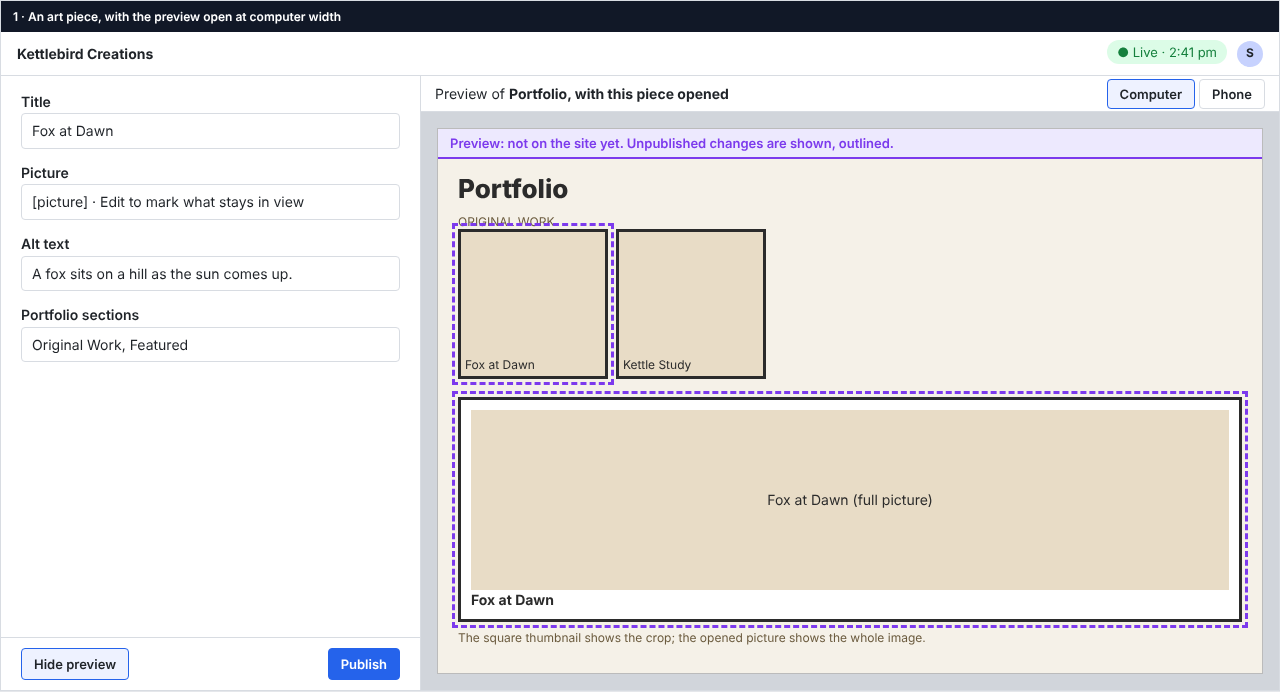
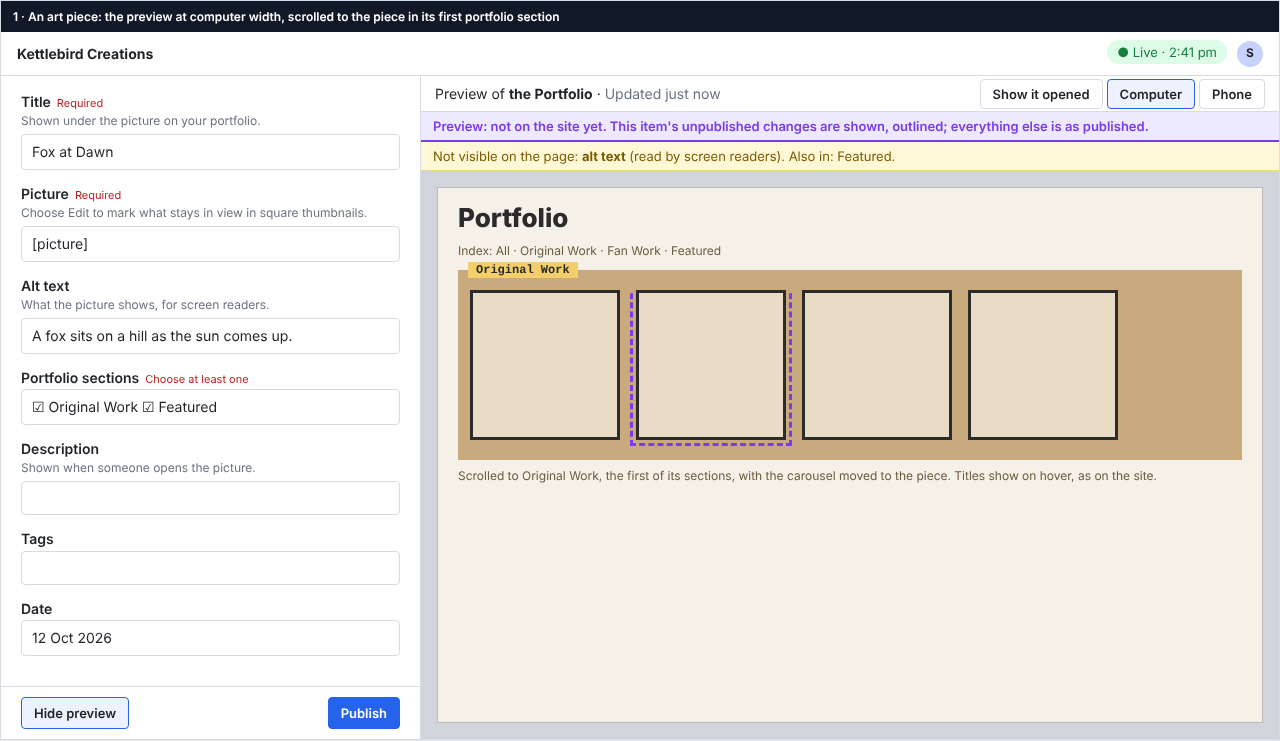
Revise the preview design after its persona walkthrough
Preview pages are separate from the public site, behind a short-lived
key, and the public build reads published content only, with a check;
the preview shows only this item's draft, lists changes the page can't
show, keeps its mark fixed and turns green after Publish; nine mock-ups
matching the real portfolio and the approved forms.

Claude-Session: https://claude.ai/code/session_01HWRLNSVAoX5Ni8d8XcwJh1

diff --git a/docs/design/mockups/preview/mockups.html b/docs/design/mockups/preview/mockups.html
@@ -40,43 +40,70 @@
   .banner { display: flex; align-items: center; gap: 10px; border: 3px solid var(--site); padding: 10px 14px; background: #fde8d7; font-family: system-ui; }
   .dot { width: 12px; height: 12px; border-radius: 50%; background: #d9822b; }
   .chg { outline: 3px dashed var(--prev); outline-offset: 3px; }
+  .hint { background: #fff7d6; color: #7a5b00; font: 13px system-ui; padding: 6px 12px; border-bottom: 1px solid #ecd889; }
+  .help { color: var(--muted); font-size: 12px; margin: 0 0 4px; }
+  .req { color: #b91c1c; font-weight: 400; font-size: 11px; margin-left: 6px; }
+  .tag { display:inline-block; border:2px solid var(--site); padding:1px 8px; font:12px ui-monospace,monospace; background:#a8d5a2; margin-right:6px; }
+  .carousel { display:flex; gap:8px; overflow:hidden; }
+  .band { background:#c9aa7e; padding:20px 12px 12px; position:relative; margin-bottom:6px; }
+  .band .lab { position:absolute; top:-8px; left:10px; background:#f4ce6a; padding:1px 8px; font:600 12px ui-monospace,monospace; }
+  .modal { position:absolute; inset:0; background:rgba(43,43,43,.85); display:flex; align-items:center; justify-content:center; }
+  .modal .box { background:#f5f1e8; border:3px solid #2b2b2b; width:80%; padding:10px; font-family:system-ui; }
 </style>
 </head>
 <body>
 <div class="frame" id="m1">
-<h6>1 · An art piece, with the preview open at computer width</h6>
+<h6>1 · An art piece: the preview at computer width, scrolled to the piece in its first portfolio section</h6>
 <div class="top"><strong>Kettlebird Creations</strong><span><span class="status">● Live · 2:41 pm</span><span class="avatar">S</span></span></div>
-<div class="split"><div class="form"><div class="doc"><div class="field"><label>Title</label><div class="input">Fox at Dawn</div></div><div class="field"><label>Picture</label><div class="input">[picture] · Edit to mark what stays in view</div></div><div class="field"><label>Alt text</label><div class="input">A fox sits on a hill as the sun comes up.</div></div><div class="field"><label>Portfolio sections</label><div class="input">Original Work, Featured</div></div></div><div class="bar"><span class="btn on">Hide preview</span><span class="btn primary">Publish</span></div></div><div class="pv"><div class="pvbar"><span>Preview of <strong>Portfolio, with this piece opened</strong></span><span><span class="btn on">Computer</span> <span class="btn">Phone</span></span></div><div class="stage"><div class="page"><div class="ribbon">Preview: not on the site yet. Unpublished changes are shown, outlined.</div><div class="site"><h1>Portfolio</h1><div class="note">ORIGINAL WORK</div><span class="card chg">Fox at Dawn</span><span class="card">Kettle Study</span><div class="light chg"><div class="img">Fox at Dawn (full picture)</div><strong>Fox at Dawn</strong></div><p class="note">The square thumbnail shows the crop; the opened picture shows the whole image.</p></div></div></div></div></div>
+<div class="split"><div class="form"><div class="doc"><div class="field"><label>Title<span class="req">Required</span></label><p class="help">Shown under the picture on your portfolio.</p><div class="input">Fox at Dawn</div></div><div class="field"><label>Picture<span class="req">Required</span></label><p class="help">Choose Edit to mark what stays in view in square thumbnails.</p><div class="input">[picture]</div></div><div class="field"><label>Alt text</label><p class="help">What the picture shows, for screen readers.</p><div class="input">A fox sits on a hill as the sun comes up.</div></div><div class="field"><label>Portfolio sections<span class="req">Choose at least one</span></label><div class="input">☑ Original Work ☑ Featured</div></div><div class="field"><label>Description</label><p class="help">Shown when someone opens the picture.</p><div class="input"></div></div><div class="field"><label>Tags</label><div class="input"></div></div><div class="field"><label>Date</label><div class="input">12 Oct 2026</div></div></div><div class="bar"><span class="btn on">Hide preview</span><span class="btn primary">Publish</span></div></div><div class="pv"><div class="pvbar"><span>Preview of <strong>the Portfolio</strong> · <span style="color:var(--muted)">Updated just now</span></span><span> <span class="btn">Show it opened</span> <span><span class="btn on">Computer</span> <span class="btn">Phone</span></span></span></div><div class="ribbon">Preview: not on the site yet. This item&#39;s unpublished changes are shown, outlined; everything else is as published.</div><div class="hint">Not visible on the page: <strong>alt text</strong> (read by screen readers). Also in: Featured.</div><div class="stage"><div class="page" style="position:relative"><div class="site"><h1>Portfolio</h1><p class="note">Index: All · Original Work · Fan Work · Featured</p><div class="band"><span class="lab">Original Work</span><div class="carousel"><span class="card">&nbsp;</span><span class="card chg">&nbsp;</span><span class="card">&nbsp;</span><span class="card">&nbsp;</span></div></div><p class="note">Scrolled to Original Work, the first of its sections, with the carousel moved to the piece. Titles show on hover, as on the site.</p></div></div></div></div></div>
 </div>
 
 <div class="frame" id="m2">
-<h6>2 · The same piece at phone width</h6>
+<h6>2 · Show it opened, at phone width: the piece as fans see it when they tap it</h6>
 <div class="top"><strong>Kettlebird Creations</strong><span><span class="status">● Live · 2:41 pm</span><span class="avatar">S</span></span></div>
-<div class="split"><div class="form"><div class="doc"><div class="field"><label>Title</label><div class="input">Fox at Dawn</div></div><div class="field"><label>Picture</label><div class="input">[picture] · Edit to mark what stays in view</div></div><div class="field"><label>Alt text</label><div class="input">A fox sits on a hill as the sun comes up.</div></div><div class="field"><label>Portfolio sections</label><div class="input">Original Work, Featured</div></div></div><div class="bar"><span class="btn on">Hide preview</span><span class="btn primary">Publish</span></div></div><div class="pv"><div class="pvbar"><span>Preview of <strong>Portfolio, with this piece opened</strong></span><span><span class="btn">Computer</span> <span class="btn on">Phone</span></span></div><div class="stage"><div class="page phone"><div class="ribbon">Preview: not on the site yet. Unpublished changes are shown, outlined.</div><div class="site"><h1>Portfolio</h1><span class="card chg" style="width:160px;height:160px">Fox at Dawn</span><div class="light chg"><div class="img" style="height:150px">Fox at Dawn</div><strong>Fox at Dawn</strong></div></div></div></div></div></div>
+<div class="split"><div class="form"><div class="doc"><div class="field"><label>Title<span class="req">Required</span></label><p class="help">Shown under the picture on your portfolio.</p><div class="input">Fox at Dawn</div></div><div class="field"><label>Picture<span class="req">Required</span></label><p class="help">Choose Edit to mark what stays in view in square thumbnails.</p><div class="input">[picture]</div></div><div class="field"><label>Alt text</label><p class="help">What the picture shows, for screen readers.</p><div class="input">A fox sits on a hill as the sun comes up.</div></div><div class="field"><label>Portfolio sections<span class="req">Choose at least one</span></label><div class="input">☑ Original Work ☑ Featured</div></div><div class="field"><label>Description</label><p class="help">Shown when someone opens the picture.</p><div class="input"></div></div><div class="field"><label>Tags</label><div class="input"></div></div><div class="field"><label>Date</label><div class="input">12 Oct 2026</div></div></div><div class="bar"><span class="btn on">Hide preview</span><span class="btn primary">Publish</span></div></div><div class="pv"><div class="pvbar"><span>Preview of <strong>the Portfolio, with this piece opened</strong> · <span style="color:var(--muted)">Updated just now</span></span><span> <span class="btn on">Show it opened</span> <span><span class="btn">Computer</span> <span class="btn on">Phone</span></span></span></div><div class="ribbon">Preview: not on the site yet. This item&#39;s unpublished changes are shown, outlined; everything else is as published.</div><div class="stage"><div class="page phone" style="position:relative"><div class="site" style="min-height:420px"><h1>Portfolio</h1><div class="band"><span class="lab">Original Work</span><div class="carousel"><span class="card">&nbsp;</span><span class="card chg">&nbsp;</span><span class="card">&nbsp;</span><span class="card">&nbsp;</span></div></div><div class="modal"><div class="box chg"><div style="height:160px;background:#e8dcc6;display:flex;align-items:center;justify-content:center">Fox at Dawn, whole picture</div><strong>Fox at Dawn</strong></div></div></div></div></div></div></div>
 </div>
 
 <div class="frame" id="m3">
-<h6>3 · A chapter: the preview follows the page Star has open</h6>
+<h6>3 · A chapter: the preview follows the page open in the page panel</h6>
 <div class="top"><strong>Kettlebird Creations</strong><span><span class="status">● Live · 2:41 pm</span><span class="avatar">S</span></span></div>
-<div class="split"><div class="form"><div class="doc"><div class="field"><label>Chapter</label><div class="input">2</div></div><div class="field"><label>Title</label><div class="input">The Long Road</div></div><div class="field"><label>Pages</label><div class="input">[24 pages] · page 3 selected</div></div><div class="field"><label>Page 3 · Alt text</label><div class="input">Fox and Kettle cross the river at dusk.</div></div></div><div class="bar"><span class="btn on">Hide preview</span><span class="btn primary">Publish</span></div></div><div class="pv"><div class="pvbar"><span>Preview of <strong>Chapter 2, page 3 in the reader</strong></span><span><span class="btn on">Computer</span> <span class="btn">Phone</span></span></div><div class="stage"><div class="page"><div class="ribbon">Preview: not on the site yet. Unpublished changes are shown, outlined.</div><div class="site"><div class="note">← Back to series &nbsp;&nbsp; <strong>Chapter 2: The Long Road · Page 3 of 24</strong></div><div class="light chg" style="text-align:center"><div class="img" style="height:300px">page 3</div></div><div class="note">Previous page &nbsp; Next page</div></div></div></div></div></div>
+<div class="split"><div class="form"><div class="doc"><div class="field"><label>Chapter<span class="req">Required</span></label><div class="input">2</div></div><div class="field"><label>Title</label><div class="input">The Long Road</div></div><div class="field"><label>Pages</label><div class="input">[24 thumbnails] · page 3 open</div></div><div class="field" style="border:1px solid var(--line);border-radius:6px;padding:10px;background:#fafafa"><label>Page 3</label><div class="input" style="height:70px">[page image]</div><div class="field"><label>Alt text</label><div class="input">Fox and Kettle cross the river at dusk.</div></div><span class="btn">Previous page</span> <span class="btn">Next page</span> <span class="btn">Done</span></div></div><div class="bar"><span class="btn on">Hide preview</span><span class="btn primary">Publish</span></div></div><div class="pv"><div class="pvbar"><span>Preview of <strong>Chapter 2, page 3 in the reader</strong> · <span style="color:var(--muted)">Updated just now</span></span><span> <span><span class="btn on">Computer</span> <span class="btn">Phone</span></span></span></div><div class="ribbon">Preview: not on the site yet. This item&#39;s unpublished changes are shown, outlined; everything else is as published.</div><div class="hint">Not visible on the page: <strong>alt text</strong>. Links in the preview don&#39;t go anywhere; choose another page in the chapter to preview it.</div><div class="stage"><div class="page" style="position:relative"><div class="site"><div class="note">← Back to series &nbsp;&nbsp; <strong>Chapter 2: The Long Road · Page 3 of 24</strong></div><div class="light chg" style="text-align:center"><div class="img" style="height:260px">page 3</div></div><div class="note">Previous page &nbsp; Next page</div></div></div></div></div></div>
 </div>
 
 <div class="frame" id="m4">
 <h6>4 · A series</h6>
 <div class="top"><strong>Kettlebird Creations</strong><span><span class="status">● Live · 2:41 pm</span><span class="avatar">S</span></span></div>
-<div class="split"><div class="form"><div class="doc"><div class="field"><label>Title</label><div class="input">Kettle Tales</div></div><div class="field"><label>Cover</label><div class="input">[picture]</div></div><div class="field"><label>Description</label><div class="input">A fox and a kettle set out across the hills, and keep going.</div></div><div class="field"><label>Status</label><div class="input">Ongoing</div></div></div><div class="bar"><span class="btn on">Hide preview</span><span class="btn primary">Publish</span></div></div><div class="pv"><div class="pvbar"><span>Preview of <strong>the Kettle Tales series page</strong></span><span><span class="btn on">Computer</span> <span class="btn">Phone</span></span></div><div class="stage"><div class="page"><div class="ribbon">Preview: not on the site yet. Unpublished changes are shown, outlined.</div><div class="site" style="display:grid;grid-template-columns:160px 1fr;gap:16px"><div class="card" style="width:150px;height:210px">cover</div><div><h1>Kettle Tales</h1><p class="chg">A fox and a kettle set out across the hills, and keep going.</p><span class="btn">Start reading</span><h2 style="font:700 16px system-ui">Chapters</h2><p class="note">Chapter 1: The Kettle · 3 pages<br>Chapter 2: The Long Road · 24 pages</p></div></div></div></div></div></div>
+<div class="split"><div class="form"><div class="doc"><div class="field"><label>Title<span class="req">Required</span></label><div class="input">Kettle Tales</div></div><div class="field"><label>Web address<span class="req">Required</span></label><div class="input">kettle-tales</div></div><div class="field"><label>Cover</label><div class="input">[picture]</div></div><div class="field"><label>Description</label><div class="input">A fox and a kettle set out across the hills, and keep going.</div></div><div class="field"><label>Status</label><div class="input">Ongoing</div></div><div class="field"><label>Kind</label><div class="input">Original</div></div><div class="field"><label>Chapters</label><div class="input">Chapter 1 · Chapter 2</div></div></div><div class="bar"><span class="btn on">Hide preview</span><span class="btn primary">Publish</span></div></div><div class="pv"><div class="pvbar"><span>Preview of <strong>the Kettle Tales series page</strong> · <span style="color:var(--muted)">Updated just now</span></span><span> <span><span class="btn on">Computer</span> <span class="btn">Phone</span></span></span></div><div class="ribbon">Preview: not on the site yet. This item&#39;s unpublished changes are shown, outlined; everything else is as published.</div><div class="stage"><div class="page" style="position:relative"><div class="site"><div style="display:grid;grid-template-columns:150px 1fr;gap:16px"><div class="card" style="width:140px;height:200px">cover</div><div><h1>Kettle Tales</h1><p><span class="tag">Ongoing</span><span class="tag" style="background:#f5f1e8">Original</span></p><p class="chg">A fox and a kettle set out across the hills, and keep going.</p><span class="btn">Start reading</span></div></div><h2 style="font:700 16px system-ui;margin-top:12px">Chapters</h2><p class="note">Chapter 1: The Kettle · 3 pages<br>Chapter 2: The Long Road · 24 pages</p></div></div></div></div></div>
 </div>
 
 <div class="frame" id="m5">
-<h6>5 · Site settings: Commissions, closing them</h6>
+<h6>5 · Site settings, Commissions: closing them</h6>
 <div class="top"><strong>Kettlebird Creations</strong><span><span class="status">● Live · 2:41 pm</span><span class="avatar">S</span></span></div>
-<div class="split"><div class="form"><div class="doc"><div class="field"><label>Commissions are…</label><div class="input">○ Open &nbsp; ◉ Closed</div></div><div class="field"><label>Note when closed</label><div class="input">Back in March.</div></div></div><div class="bar"><span class="btn on">Hide preview</span><span class="btn primary">Publish</span></div></div><div class="pv"><div class="pvbar"><span>Preview of <strong>the Commissions page</strong></span><span><span class="btn on">Computer</span> <span class="btn">Phone</span></span></div><div class="stage"><div class="page"><div class="ribbon">Preview: not on the site yet. Unpublished changes are shown, outlined.</div><div class="site"><h1>Commissions</h1><div class="banner chg"><span class="dot"></span><span><strong>Commissions are closed.</strong> Back in March.</span></div><p style="font-family:system-ui">These are the kinds of commission I take, for when they open again.</p></div></div></div></div></div>
+<div class="split"><div class="form"><div class="doc"><div class="field"><label>Commissions are…<span class="req">Required</span></label><div class="input">○ Open &nbsp; ◉ Closed</div></div><div class="field"><label>Note when closed</label><div class="input">Back in March.</div></div></div><div class="bar"><span class="btn on">Hide preview</span><span class="btn primary">Publish</span></div></div><div class="pv"><div class="pvbar"><span>Preview of <strong>the Commissions page</strong> · <span style="color:var(--muted)">Updated just now</span></span><span> <span><span class="btn on">Computer</span> <span class="btn">Phone</span></span></span></div><div class="ribbon">Preview: not on the site yet. This item&#39;s unpublished changes are shown, outlined; everything else is as published.</div><div class="hint">Removed from the page: <strong>How it works</strong>, <strong>Ready to order?</strong> and the commission email buttons.</div><div class="stage"><div class="page" style="position:relative"><div class="site"><h1>Commissions</h1><div class="banner chg"><span class="dot"></span><span><strong>Commissions are closed.</strong> Back in March.</span></div><p style="font-family:system-ui">These are the kinds of commission I take, for when they open again.</p></div></div></div></div></div>
 </div>
 
 <div class="frame" id="m6">
-<h6>6 · When the preview can&#39;t be shown: no web address yet, and no connection</h6>
+<h6>6 · Site settings, Contact and social links: scrolled to the change</h6>
 <div class="top"><strong>Kettlebird Creations</strong><span><span class="status">● Live · 2:41 pm</span><span class="avatar">S</span></span></div>
-<div style="display:grid;grid-template-columns:1fr 1fr;gap:12px;padding:12px"><div class="pv" style="min-height:240px"><div class="pvbar"><span>Preview</span></div><div class="stage"><div class="page" style="background:#fff"><div class="msg">Add a <strong>Web address</strong> to preview this series. The preview needs to know where the page will be.</div></div></div></div><div class="pv" style="min-height:240px"><div class="pvbar"><span>Preview</span></div><div class="stage"><div class="page" style="background:#fff"><div class="msg">Can&#39;t show the preview right now.<br><span class="btn" style="display:inline-block;margin-top:10px">Try again</span><br><span style="font-size:13px">Your changes are saved. You can still publish.</span></div></div></div></div></div>
+<div class="split"><div class="form"><div class="doc"><div class="field"><label>Contact email<span class="req">Required</span></label><div class="input">star@kettlebird.com</div></div><div class="field"><label>Social links</label><div class="input">Bluesky · Tumblr · Ko-fi</div></div></div><div class="bar"><span class="btn on">Hide preview</span><span class="btn primary">Publish</span></div></div><div class="pv"><div class="pvbar"><span>Preview of <strong>the home page, scrolled to the social links and footer</strong> · <span style="color:var(--muted)">Updated just now</span></span><span> <span><span class="btn on">Computer</span> <span class="btn">Phone</span></span></span></div><div class="ribbon">Preview: not on the site yet. This item&#39;s unpublished changes are shown, outlined; everything else is as published.</div><div class="hint">Removed: <strong>Instagram</strong> link. Not visible on the page: where the email buttons send people (now star@kettlebird.com).</div><div class="stage"><div class="page" style="position:relative"><div class="site"><p class="note">… home page, scrolled to the bottom …</p><p class="soc chg"><span class="btn">BLUESKY</span> <span class="btn">TUMBLR</span> <span class="btn">KO-FI</span></p></div><div style="background:#2b2b2b;color:#f5f1e8;padding:12px;font-family:system-ui" class="chg">Connect · Bluesky · Tumblr · Ko-fi &nbsp; Contact · star@kettlebird.com</div></div></div></div></div>
+</div>
+
+<div class="frame" id="m7">
+<h6>7 · After Publish: the preview says so, and stops outlining once the site has it</h6>
+<div class="top"><strong>Kettlebird Creations</strong><span><span class="status">● Live · 2:41 pm</span><span class="avatar">S</span></span></div>
+<div class="split"><div class="form"><div class="doc"><div class="field"><label>Commissions are…<span class="req">Required</span></label><div class="input">○ Open &nbsp; ◉ Closed</div></div><div class="field"><label>Note when closed</label><div class="input">Back in March.</div></div></div><div class="bar"><span class="btn on">Hide preview</span><span class="btn primary">Publish</span></div></div><div class="pv"><div class="pvbar"><span>Preview of <strong>the Commissions page</strong> · <span style="color:var(--muted)">Updated just now</span></span><span> <span><span class="btn on">Computer</span> <span class="btn">Phone</span></span></span></div><div class="ribbon" style="background:#dcfce7;color:#15803d;border-color:#15803d">Published. The site matches this preview once the status at the top right says Live.</div><div class="stage"><div class="page" style="position:relative"><div class="site"><h1>Commissions</h1><div class="banner"><span class="dot"></span><span><strong>Commissions are closed.</strong> Back in March.</span></div></div></div></div></div></div>
+</div>
+
+<div class="frame" id="m8">
+<h6>8 · Before the preview is open: Preview beside Publish</h6>
+<div class="top"><strong>Kettlebird Creations</strong><span><span class="status">● Live · 2:41 pm</span><span class="avatar">S</span></span></div>
+<div class="split" style="grid-template-columns:520px 1fr"><div class="form"><div class="doc"><div class="field"><label>Title<span class="req">Required</span></label><div class="input">Fox at Dawn</div></div><div class="field"><label>Picture<span class="req">Required</span></label><div class="input">[picture]</div></div></div><div class="bar"><span class="btn">Preview</span><span class="btn primary">Publish</span></div></div><div class="msg" style="background:#eef0f3">The item takes the full width until Preview is chosen. While the preview is open, the menu and the list fold away, and come back with Hide preview.</div></div>
+</div>
+
+<div class="frame" id="m9">
+<h6>9 · When the preview can&#39;t show the page</h6>
+<div class="top"><strong>Kettlebird Creations</strong><span><span class="status">● Live · 2:41 pm</span><span class="avatar">S</span></span></div>
+<div style="display:grid;grid-template-columns:1fr 1fr 1fr;gap:12px;padding:12px"><div class="pv" style="min-height:220px"><div class="pvbar"><span>Preview</span><span><span class="btn on">Computer</span> <span class="btn">Phone</span></span></div><div class="stage"><div class="page" style="background:#fff"><div class="msg">Choose a <strong>portfolio section</strong> to see where this piece goes.</div></div></div></div><div class="pv" style="min-height:220px"><div class="pvbar"><span>Preview</span><span><span class="btn on">Computer</span> <span class="btn">Phone</span></span></div><div class="stage"><div class="page" style="background:#fff"><div class="msg">Add a <strong>web address</strong> so readers can find this series. The preview needs it too.</div></div></div></div><div class="pv" style="min-height:220px"><div class="pvbar"><span>Preview</span><span><span class="btn on">Computer</span> <span class="btn">Phone</span></span></div><div class="stage"><div class="page" style="background:#fff"><div class="msg">Can&#39;t show the preview right now.<br><span class="btn" style="display:inline-block;margin-top:10px">Try again</span><br><span style="font-size:13px">Your changes are saved. You can still publish.</span></div></div></div></div></div>
 </div>
 </body>
 </html>

diff --git a/docs/design/preview.md b/docs/design/preview.md
@@ -5,6 +5,11 @@ derived-from:
   - story-content-editing-preview: be2784e6f165
   - design-cms#decision: 889c200357ba
   - design-organised-editor: c014dfe64fbc
+  - design-comic-publish-pages: 37139d9491dd
+  - design-site-settings: 156335124dd1
+  - design-know-when-live: b7f62b452b90
+  - design-sign-in: 8a54c1540982
+  - persona-fan#goals: 2b047e4cae5d
   - persona-artist#frustrations: ef88538c418e
 ---
 
@@ -17,70 +22,120 @@ this design places it. -->
 
 ## Personas
 
-- persona-artist: "publishing work that then looks wrong (cropping, missing alt text) with no preview" is one of Star's listed frustrations, and Star often uploads straight after finishing a piece. So the preview sits beside the form, shows the real site page with the change in place, follows every keystroke, and works at phone width, where most fans read.
+- persona-artist: "publishing work that then looks wrong (cropping…) with no preview" is one of Star's listed frustrations, and Star often uploads straight after finishing a piece. So the preview sits beside the form, shows the real site page with the change in place, follows every edit, and works at phone width, where most fans read. Changes a page can't show, like alt text, are listed instead, so Star isn't left thinking the preview checked them.
+- persona-fan: fans never see unpublished work. Preview pages are separate from the public site, and the public site never reads drafts.
 
 ## How it works
 
-- **The preview is the site's own page**, built by the site from Star's unpublished changes, the same way it builds the real page. A crop, a line break, or a long title looks exactly as it will once published. It isn't a sketch of the page.
-- **It's shown only inside the editor**, to someone signed in. The preview pages aren't part of the public site: visitors can't open them, search engines don't list them, and the public pages never show unpublished changes.
-- Everything else on the site stays as it is: built once per update. Only the preview pages are made on demand.
+- **The preview is the site's own page**, built by the site with the same components it uses for the real page. A crop, a line break, or a long title looks exactly as it will once published.
+- **It shows this item's unpublished changes only.** Everything else on the page is as published, so the preview shows exactly what **Publish** on this item will produce. Another half-finished draft, such as a bio Star is still writing, doesn't appear.
+- **Preview pages are separate from the public site**, at their own addresses under `/preview/`, made on demand. The editor opens them with a short-lived key that only the editor holds. Without it, a preview address shows **Page not found**. Preview pages are never cached, and search engines are told not to list them.
+- **The public site never reads drafts.** It's built from published content only, without the key that reads drafts. That key is held only by the preview pages on the live site; pull request previews and builds don't have it. A check on every build confirms that no unpublished content reached the built site, like the sign-in design's "no link to /studio" check.
+- The public pages, including **View on site**, never change mode: they always show what visitors see.
 
 ## Flow
 
-1. While editing an item, Star chooses **Preview**, at the bottom of the item beside **Publish**.
-2. The editor splits: the form on the left, the site page on the right, headed with which page it is ("Preview of the Portfolio, with this piece opened") and with **Computer** and **Phone** buttons (mock-ups 1 and 2).
-3. The page is marked across its top: "Preview: not on the site yet. Unpublished changes are shown, outlined." The parts Star has changed are outlined in dashes.
-4. As Star types, changes a picture, or moves a crop, the preview updates within a second or two, without publishing.
-5. **Phone** narrows the page to a phone's width (mock-up 2); **Computer** widens it again. Star's choice is remembered for next time.
-6. **Hide preview** closes it; **Publish** works as always, with the preview open or not.
+1. While editing an item, Star chooses **Preview**, beside **Publish** at the bottom of the item (mock-up 8).
+2. The editor makes room. The menu and list fold away, the form stays on the left, and the site page appears on the right (mock-ups 1 to 6). Above the page:
+   - which page it is, and when the preview last caught up ("Updated just now");
+   - **Computer** and **Phone**, and for an art piece, **Show it opened**;
+   - a fixed line that doesn't scroll away: "Preview: not on the site yet. This item's unpublished changes are shown, outlined; everything else is as published."
+3. The parts Star has changed are outlined in dashes. Anything Star changed that the page can't show, or removed, is listed in a yellow line under it. Examples: "Not visible on the page: alt text"; "Removed: Instagram link"; "Removed from the page: How it works".
+4. As Star types, changes a picture, or moves a crop, the preview catches up. Usually that takes a second or two after Star pauses, and "Updated just now" refreshes when it does.
+5. **Computer** shows the page at a laptop's width (1280 pixels), scaled to fit the space, so the layout is the computer one even in a narrow window. **Phone** shows it at a phone's width (375 pixels), full size. Star's choice is remembered.
+6. Links in the preview don't go anywhere. Pointing at one says "Links don't work in the preview". To preview another page of a chapter, Star opens it in the chapter.
+7. After **Publish**, the fixed line turns green: "Published. The site matches this preview once the status at the top right says Live." (mock-up 7). Once the status says **Live**, the outlines and lists go, because there's nothing unpublished left.
+8. **Hide preview** closes it, and the menu and list come back.
 
-## Which page the preview shows
+## Which page the preview shows, and where it scrolls
 
-| Item | Page | Mock-up |
+| Item | Page, and where it scrolls | Mock-up |
 |---|---|---|
-| Art piece | The portfolio, scrolled to the piece's section, with the piece opened, so both the square thumbnail's crop and the whole picture show | 1, 2 |
-| Chapter | The reader, at the page Star has open in the chapter's **Pages** (page 1 if none) | 3 |
-| Series | The series page | 4 |
-| Site settings: Commissions | The Commissions page | 5 |
-| Site settings: About page | The about page | |
-| Site settings: Home page | The home page | |
-| Site settings: Contact and social links | The home page, whose social row, footer and contact all show the change | |
-| Story, product, commission type | The Writing page, the shop, or the Commissions page | |
+| Art piece | The portfolio, scrolled to the piece's first portfolio section, with that section's carousel moved to the piece. The yellow line names any other sections it's also in. **Show it opened** opens the piece as fans see it when they choose it, over the page. This needs a small addition to the portfolio: a way to open a given piece and move to it, used only by the preview. | 1, 2 |
+| Chapter | The reader, at the page open in the chapter's page panel. With no page open, page 1. If Star moves the open page, the preview follows it to its new number. | 3 |
+| Series | The series page, from the top. | 4 |
+| Site settings: Commissions | The Commissions page, from the top. | 5 |
+| Site settings: About page | The about page, scrolled to the changed part. | |
+| Site settings: Home page | The home page, scrolled to the artist text. | |
+| Site settings: Contact and social links | The home page, scrolled to the social links and footer. | 6 |
+| Story, product, commission type | The Writing page, the shop, or the Commissions page, scrolled to the item. | |
+
+The rows without a mock-up use the same layout as mock-up 5 or 6, with their own page.
 
 ## Mock-ups
 
-Low-fidelity. The left side is the editor (Sanity Studio); the right side stands in for the site's real page. Source: `mockups/preview/mockups.html`.
+Low-fidelity. The left side is the editor (Sanity Studio), with the forms from design-organised-editor and design-comic-publish-pages; the right side stands in for the site's real page, simplified. Source: `mockups/preview/mockups.html`.
 
 | # | Screen | File |
 |---|---|---|
-| 1 | An art piece, with the preview at computer width | `mockups/preview/1-art-computer.png` |
-| 2 | The same piece at phone width | `mockups/preview/2-art-phone.png` |
-| 3 | A chapter: the reader at the page Star has open | `mockups/preview/3-chapter-page.png` |
+| 1 | An art piece at computer width, scrolled to the piece | `mockups/preview/1-art-computer.png` |
+| 2 | **Show it opened**, at phone width | `mockups/preview/2-art-opened-phone.png` |
+| 3 | A chapter, following the page open in the page panel | `mockups/preview/3-chapter-page.png` |
 | 4 | A series | `mockups/preview/4-series.png` |
-| 5 | Site settings, Commissions: closing them | `mockups/preview/5-site-settings.png` |
-| 6 | When the preview can't be shown | `mockups/preview/6-cant-preview.png` |
+| 5 | Site settings, Commissions: closing them, with what's removed listed | `mockups/preview/5-commissions.png` |
+| 6 | Site settings, Contact and social links: scrolled to the change | `mockups/preview/6-contact-and-links.png` |
+| 7 | After **Publish** | `mockups/preview/7-after-publish.png` |
+| 8 | Before the preview is open: **Preview** beside **Publish** | `mockups/preview/8-before-preview.png` |
+| 9 | When the preview can't show the page | `mockups/preview/9-cant-preview.png` |
 
 ## States and errors
 
-- **Something the page needs is missing** (mock-up 6), such as a series with no **Web address**, or a chapter with no series: "Add a **Web address** to preview this series. The preview needs to know where the page will be." The message names the field.
-- **A new item not yet published:** the preview shows it on its page as if published, outlined, among the published items.
-- **A chapter with no pages yet:** "Add a page to preview this chapter." Visitors never see a chapter without pages (design-comic-start-reading).
+Mock-up 9 shows the first three:
+- **No portfolio section:** "Choose a portfolio section to see where this piece goes."
+- **No web address on a series** (or the chapter's series has none): "Add a web address so readers can find this series. The preview needs it too."
 - **Can't load** (no connection, or the site doesn't answer): "Can't show the preview right now." with **Try again**, and "Your changes are saved. You can still publish."
-- **Still loading:** the last preview stays in place, dimmed, until the new one arrives, so the page doesn't flash.
-- **A picture still uploading:** the preview shows the picture once the upload finishes.
+
+Also:
+- **No picture on an art piece yet:** "Add the picture to preview it."
+- **A chapter with no pages yet:** "Add a page to preview this chapter." Visitors never see a chapter without pages (design-comic-start-reading).
+- **A chapter with the same number as another:** the preview shows it, with "Chapter 2 already exists in this series; publishing is blocked until you change one" in the yellow line.
+- **New, never-published items** (a series, a chapter in an unpublished series): shown in place as if published, outlined.
+- **Still catching up:** the last preview stays in place, dimmed, until the new one arrives, so the page doesn't flash.
+- **A picture still uploading:** the preview shows it once the upload finishes.
 
 ## Accessibility
 
-- **Preview**, **Hide preview**, **Computer** and **Phone** are buttons, reachable by keyboard; **Computer** and **Phone** say which is chosen.
-- The preview's top line says it's a preview in words; the outlines are an extra cue, not the only one.
-- Screen readers hear the preview page as a separate region, named by its heading ("Preview of the Commissions page").
-- The preview never updates while a screen reader is reading it mid-sentence; updates are announced politely ("Preview updated").
+- **Preview**, **Hide preview**, **Computer**, **Phone** and **Show it opened** are buttons, reachable by keyboard; the chosen width is marked as chosen.
+- The fixed line says it's a preview in words; the outlines are an extra cue, and changes the page can't show are listed in words.
+- Screen readers hear the preview as a separate region, named "Preview of the Commissions page". "Preview updated" is announced only when Star pauses, never on every keystroke.
+- The preview never takes keyboard focus from the form when it updates.
 
 ## For the spec to check
 
-- Sanity's Presentation tool, or a document view, can show the site's page beside the form and update it as Star types, on the free plan.
-- The site can serve a preview page on demand from unpublished changes, only to someone signed in to the editor. That means server rendering for the preview pages alone, on Vercel, with every other page staying a static build.
-- Preview pages send "don't list" and "don't cache" headers, and the site's framing rule allows the editor (design-sign-in already changes it to "only this site").
-- Changed parts can be outlined.
-- The preview can open the portfolio with a piece opened, and the reader at a given page.
-- **Phone** width is 375 pixels; **Computer** fills the space.
+- Sanity's Presentation tool, or a document view, can show the preview page beside the form, fold the menu and list away, and update after edits, on the free plan. Check the API request limits at that rate.
+- **Preview** can sit beside **Publish** as its own button, not inside a menu. design-comic-publish-pages still puts **Preview** and **Publish** in the top bar; that's corrected with Star's guide to know-when-live.
+- Astro serves the `/preview/` pages on demand on Vercel (an adapter, with only those pages on demand), reusing the real pages' components, with the reader and series pages refactored so their data can come from a draft.
+- Only this item's draft is used, with everything else published.
+- The access check: a short-lived key from the editor (Sanity's preview secret), the read token kept on the server and set for production only, and **Page not found** without it. Preview pages send no-cache and no-index headers. The framing rule allows the editor (design-sign-in's "only this site").
+- The public client reads published content only (perspective "published"), and a build check finds no draft documents.
+- Changed fields can be outlined, and removals and non-visible changes listed.
+- The portfolio can open a given piece and move its carousel to it; the reader's and portfolio's scripts don't scroll the editor or take focus.
+- **Computer** at 1280 pixels scaled to fit; **Phone** at 375 pixels.
+
+## Persona walkthrough
+
+A walkthrough for persona-artist and persona-fan (2026-11-01) opened each mock-up and checked the real pages behind them. Everything it found is addressed above.
+
+It flagged two things as blocking:
+- The portfolio can't open a given piece today. The design now names that addition and its limits.
+- Four states and screens had no mock-up. There are now nine mock-ups, and a note on the rows that share a layout.
+
+Things that would have misled Star:
+- The art mock-up didn't match the real portfolio. It now shows the carousel, and **Show it opened** shows the real overlay.
+- Which section and carousel position the preview shows: now the first section, with the other sections named.
+- Whether other drafts appear: they don't; the preview shows only this item.
+- Changes the page can't show, like alt text, the contact email and removals: now listed.
+- What **Computer** means in a narrow window: now a fixed laptop width.
+- The mark scrolling away, and nothing changing after **Publish**: the mark is now fixed, and it turns green after publishing.
+- Links leading out of the preview: they're now inactive.
+- **View on site** showing drafts: the public pages never change mode.
+
+For fans, it found that keeping drafts off the public site had no stated means and no check. Both are now in "How it works".
+
+Smaller points:
+- the forms now match the approved designs;
+- where **Preview** sits;
+- where each page scrolls;
+- the chapter's edge cases;
+- the catch-up indicator and announcements;
+- one wording for the missing web address.
